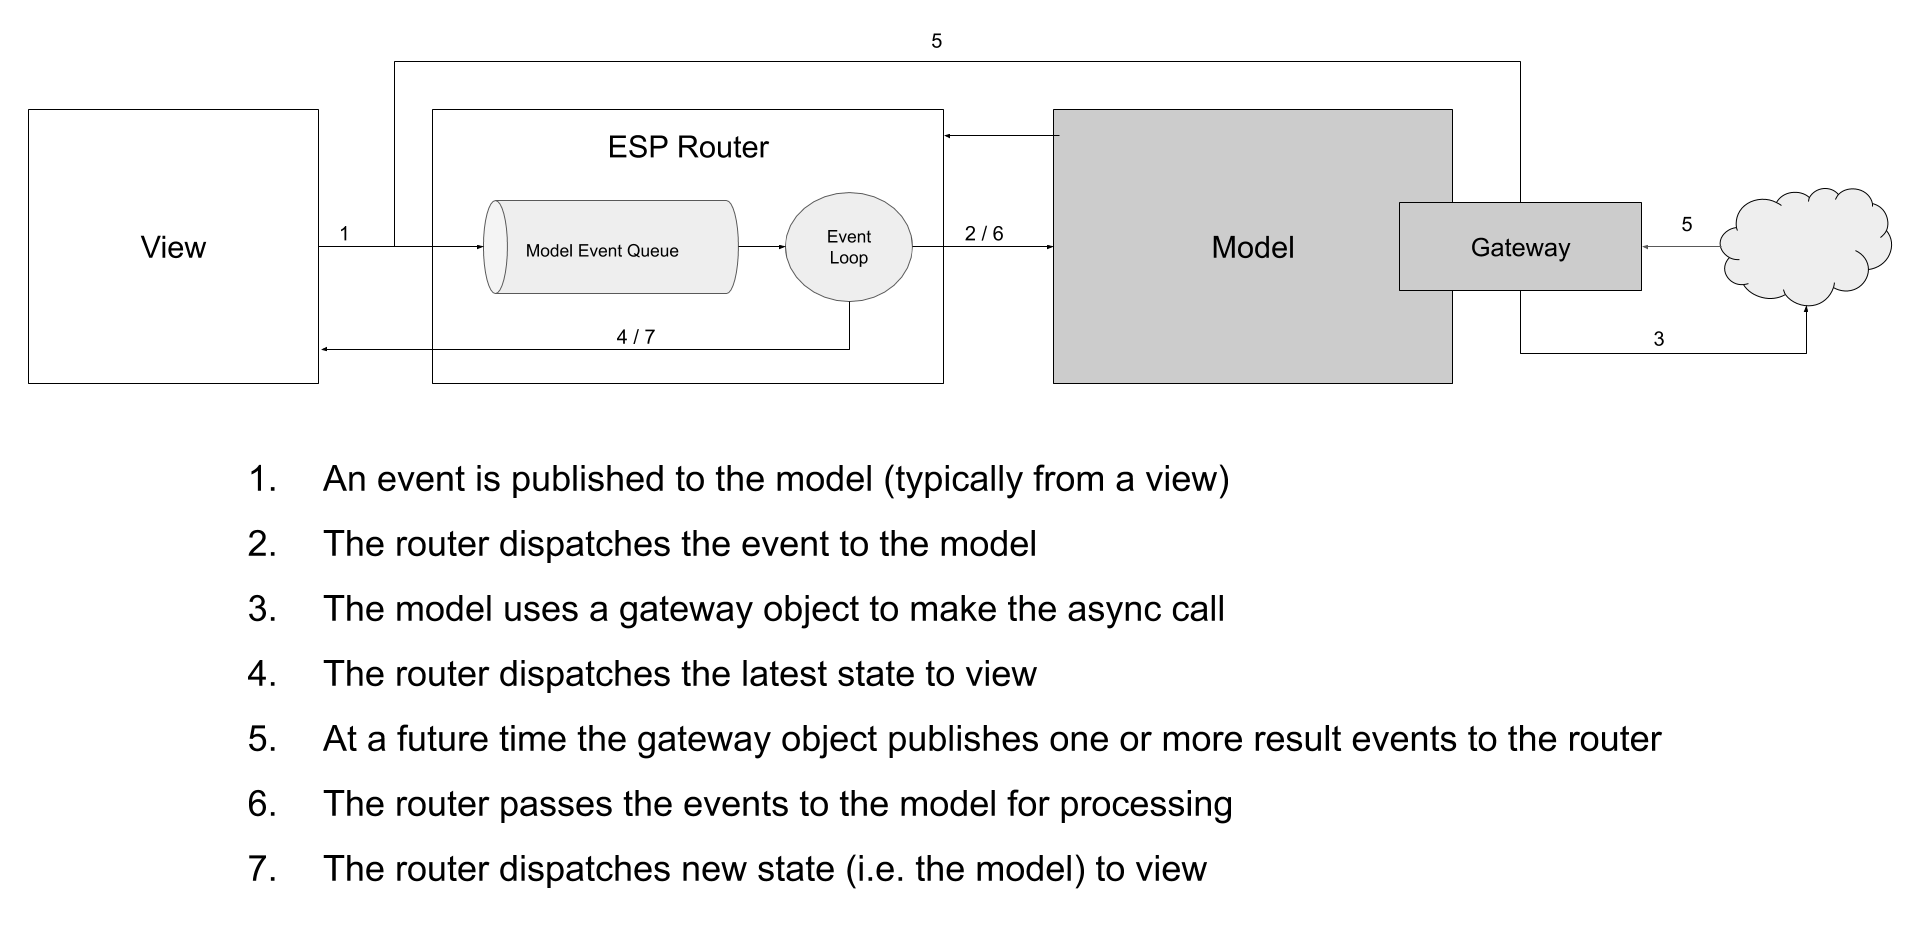
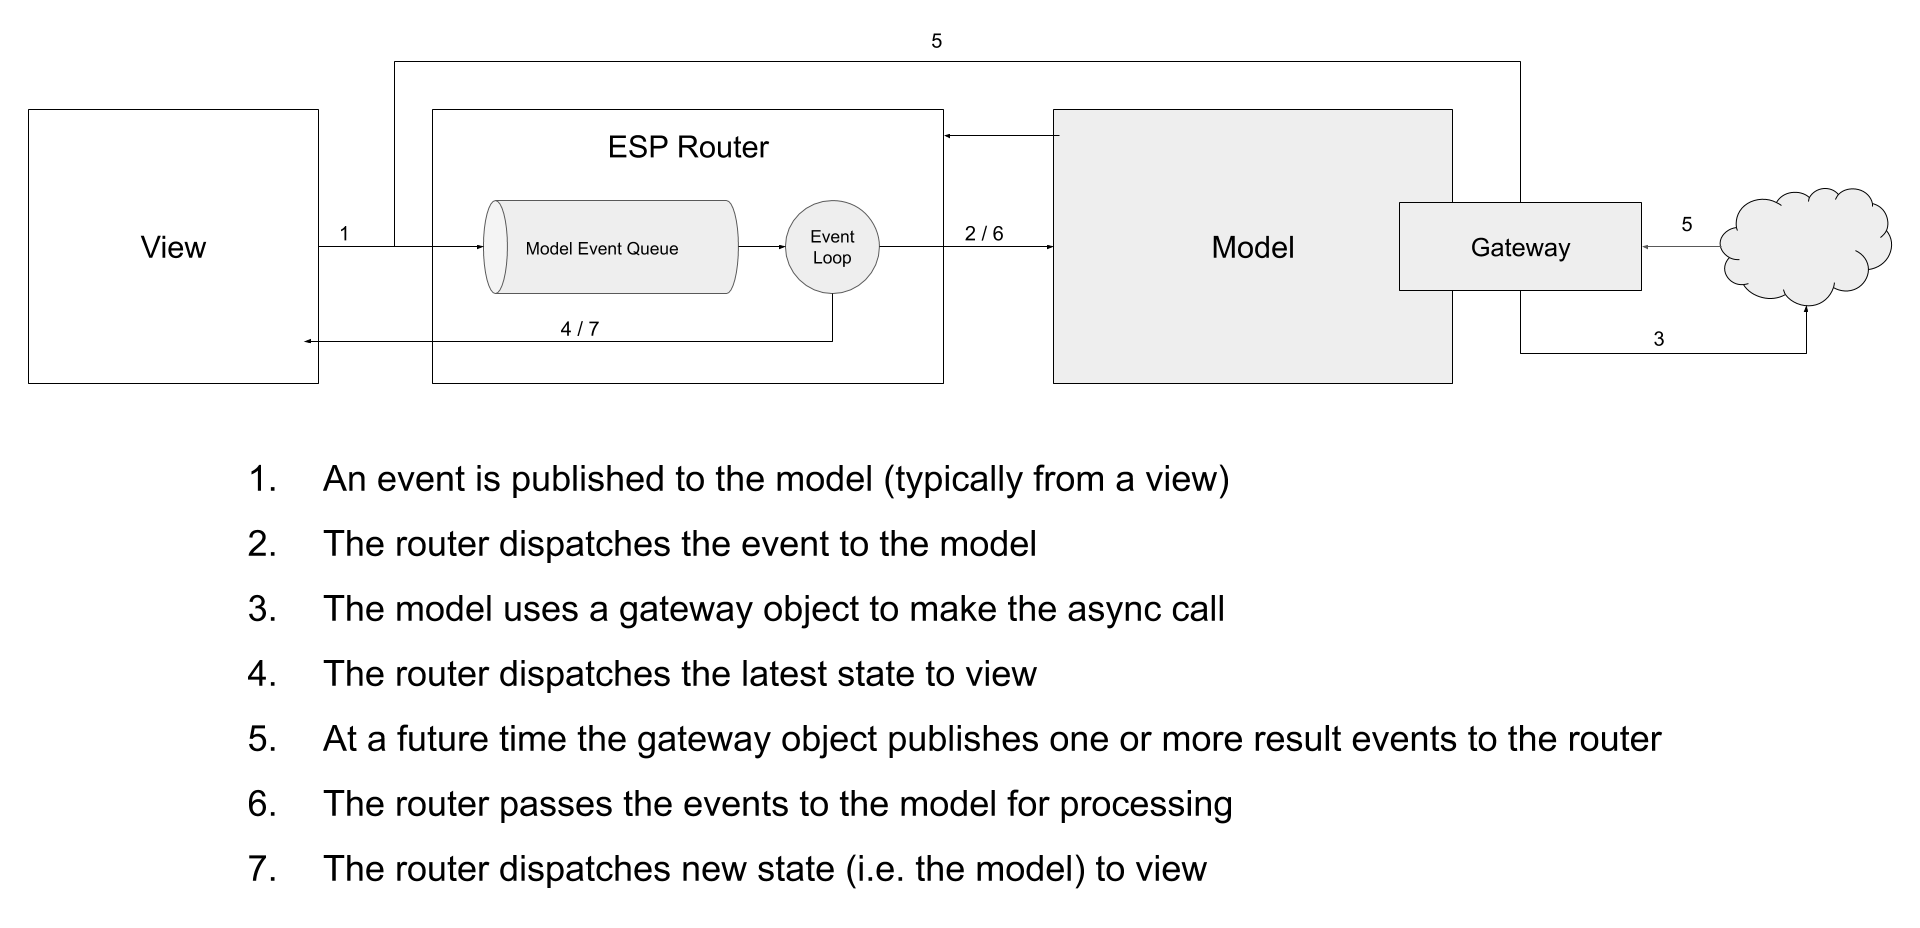
Updating diagrams.

diff --git a/_docs/01-concepts/02-esp-js-polimer/02-immutable-modeling.md b/_docs/01-concepts/02-esp-js-polimer/02-immutable-modeling.md
@@ -4,3 +4,9 @@ permalink: /concepts/esp-js-polimer/immutable-modeling/
 ---
 
 {% include draftdocs.html %}
+
+![](../../../images/immutable-standard-flow.png){: .align-center}
+
+## Asynchronous Operations with Immutable Models 
+
+![](../../../images/immutable-async-flow.png){: .align-center}
